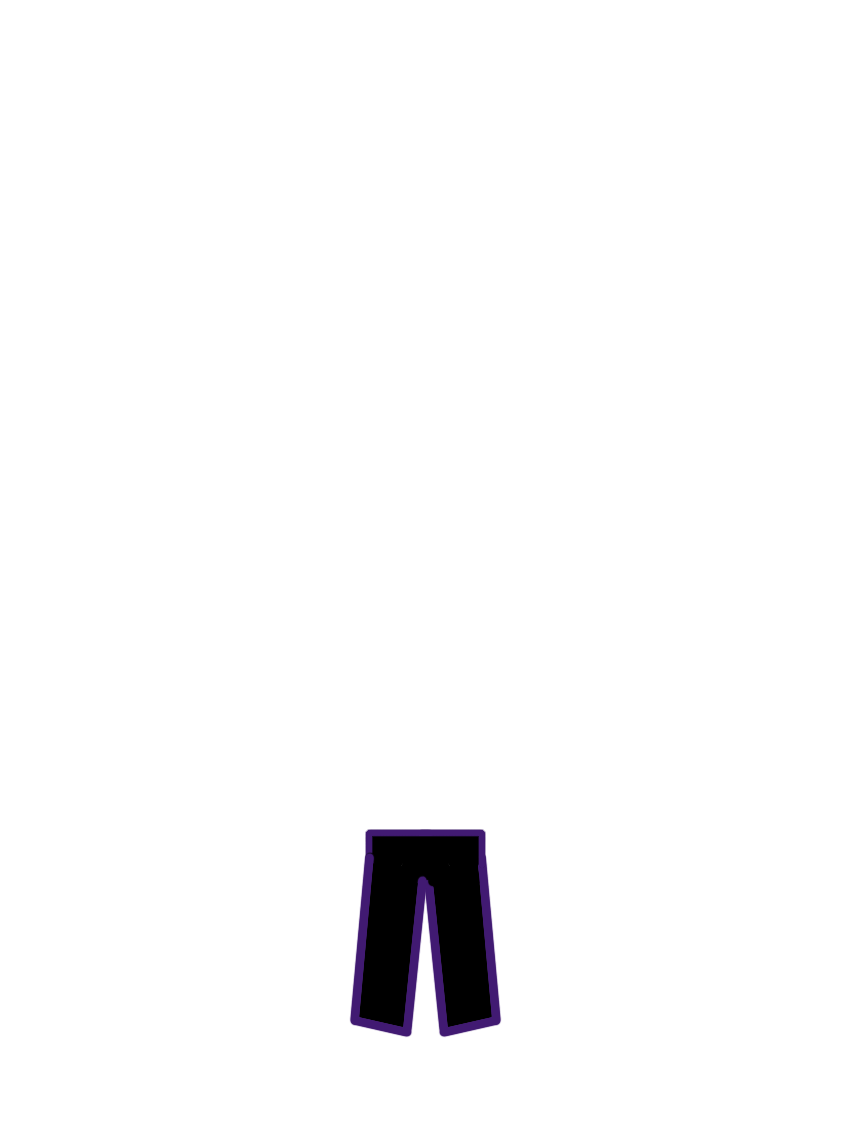
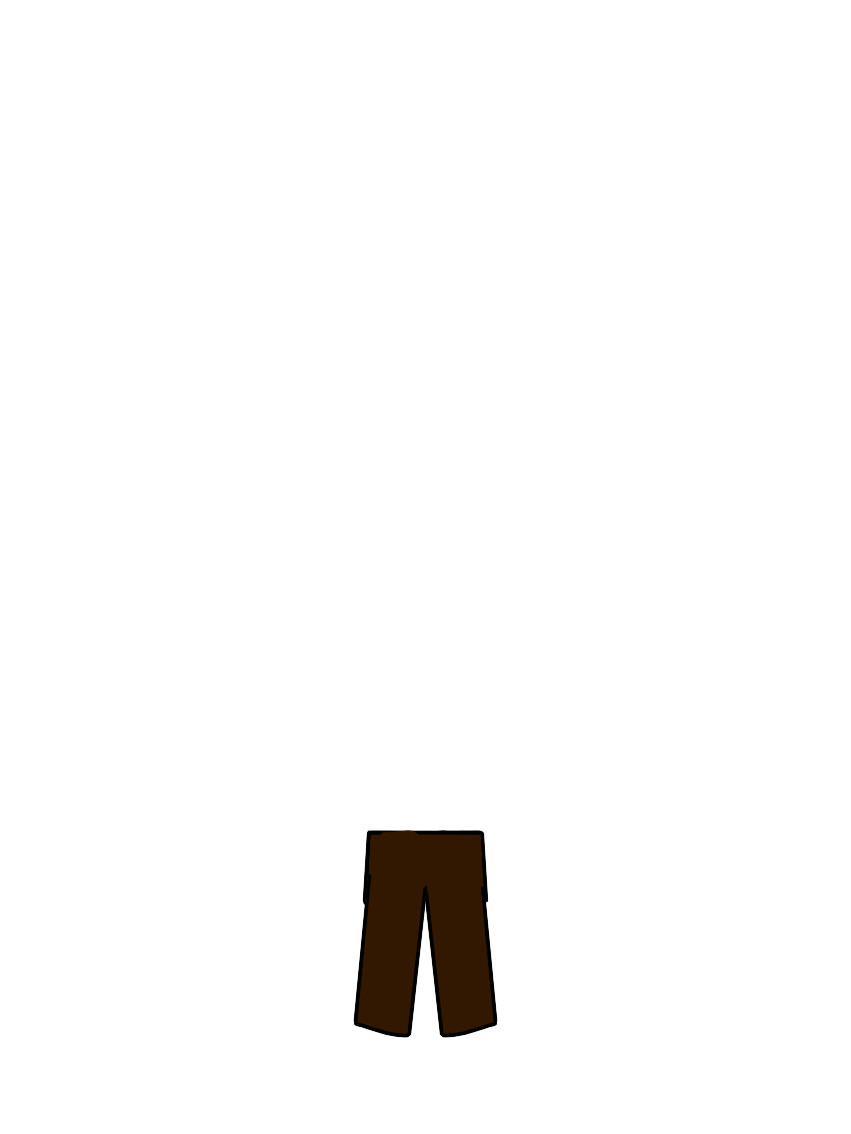
Replace pants1 with the brown pants
Claude-Session: https://claude.ai/code/session_014kRFoiuKUvJEP5Pz3xvP7v

Changed region(s): [[0.3972, 0.7099, 0.611, 0.9259]]

diff --git a/index.html b/index.html
@@ -7,8 +7,8 @@
 	<meta charset="UTF-8" />
 	<meta name="viewport" content="width=device-width, initial-scale=1.0, user-scalable=no" />
 	<title>My Pet Game</title>
-	<link rel="stylesheet" href="pet_style.css?v=20261017o" />
-	<link rel="stylesheet" href="scroll.css?v=20261017o">
+	<link rel="stylesheet" href="pet_style.css?v=20261017p" />
+	<link rel="stylesheet" href="scroll.css?v=20261017p">
 </head>
 
 <body>
@@ -29,22 +29,22 @@
 		<div id="hint" class="card small"></div>
 	</div>
 
-	<script src="hd_canvas.js?v=20261017o"></script>
-	<script src="asset_path_fix.js?v=20261017o"></script>
-	<script src="pet_gender.js?v=20261017o"></script>
-	<script src="pet_art.js?v=20261017o"></script>
-	<script src="mode_manger.js?v=20261017o"></script>
-	<script src="outfit_config.js?v=20261017o"></script>
-	<script src="outfit_system_single_sprite.js?v=20261017o"></script>
-	<script src="outfit_presets.js?v=20261017o"></script>
+	<script src="hd_canvas.js?v=20261017p"></script>
+	<script src="asset_path_fix.js?v=20261017p"></script>
+	<script src="pet_gender.js?v=20261017p"></script>
+	<script src="pet_art.js?v=20261017p"></script>
+	<script src="mode_manger.js?v=20261017p"></script>
+	<script src="outfit_config.js?v=20261017p"></script>
+	<script src="outfit_system_single_sprite.js?v=20261017p"></script>
+	<script src="outfit_presets.js?v=20261017p"></script>
 	<!-- Ragdoll: the skeleton + physics (ported from Computer-pet) -->
-	<script src="ragdoll_config.js?v=20261017o"></script>
-	<script src="ragdoll.js?v=20261017o"></script>
-	<script src="pet_stats.js?v=20261017o"></script>
-	<script src="pet_modes.js?v=20261017o"></script>
-	<script src="canvas_fix.js?v=20261017o"></script>
-	<script src="ui_cleanup.js?v=20261017o"></script>
-	<script src="pet_toys.js?v=20261017o"></script>
+	<script src="ragdoll_config.js?v=20261017p"></script>
+	<script src="ragdoll.js?v=20261017p"></script>
+	<script src="pet_stats.js?v=20261017p"></script>
+	<script src="pet_modes.js?v=20261017p"></script>
+	<script src="canvas_fix.js?v=20261017p"></script>
+	<script src="ui_cleanup.js?v=20261017p"></script>
+	<script src="pet_toys.js?v=20261017p"></script>
 </body>
 
 </html>
